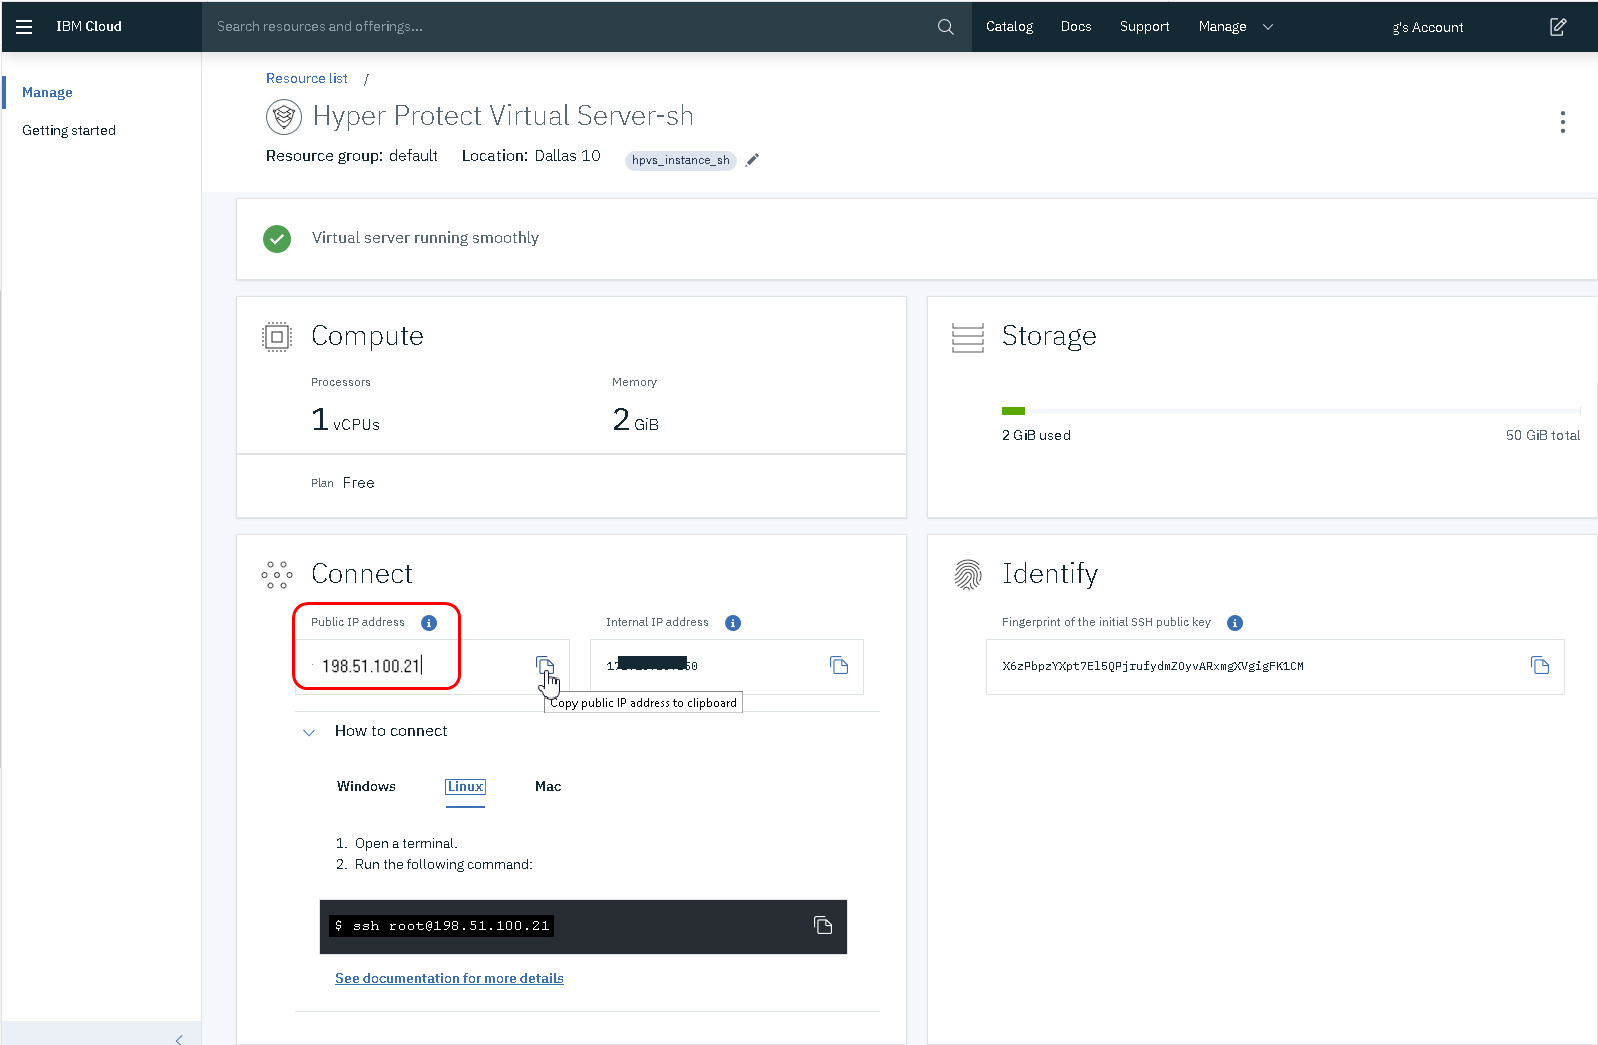
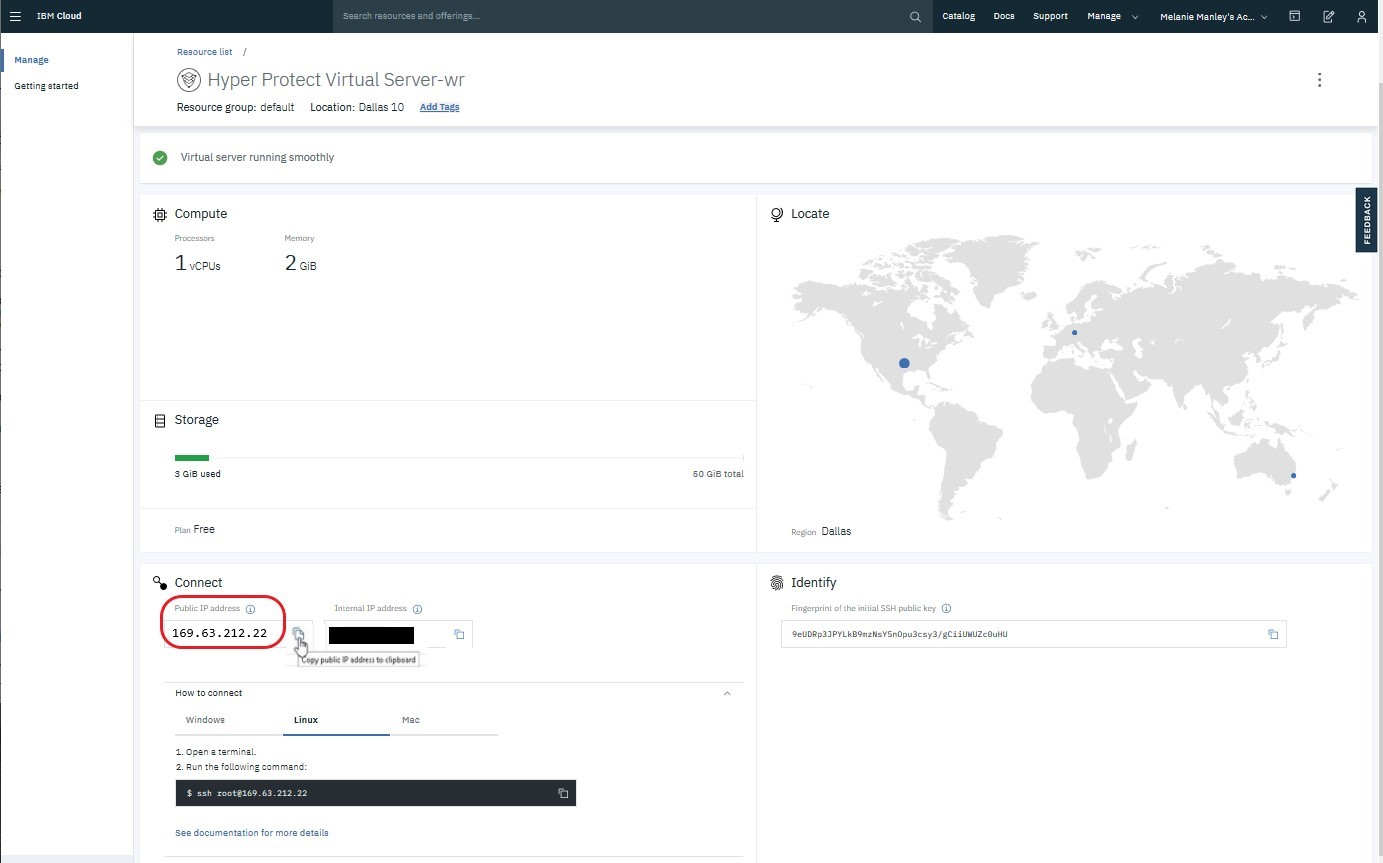
update region map

diff --git a/retrieve_info_vs.md b/retrieve_info_vs.md
@@ -20,7 +20,7 @@ lastupdated: "2019-12-09"
 
 After you created a virtual server by using the {{site.data.keyword.hpvs}} service, you can check the detailed information of your new instance.
 
-1. Go to the [Resource list](https://cloud.ibm.com/resources){: external} and look for your virtual server instance under the **Services** entry in the **Name** column. You can open the **Resource list** either from the {{site.data.keyword.cloud_notm}} **Navigation Menu** or from the {{site.data.keyword.cloud_notm}} Dashboard by selecting **View resources** within the **Resource summary** area. Column **Location** displays the selected data center where your instance was created. Use the filter to search for virtual server instances in certain regions or data centers. See also Figure 2 from [Provisioning a virtual server](/docs/services/hp-virtual-servers?topic=hp-virtual-servers-provision).
+1. Go to the [Resource list](https://cloud.ibm.com/resources){: external} and look for your virtual server instance under the **Services** entry in the **Name** column. You can open the **Resource list** either from the {{site.data.keyword.cloud_notm}} **Navigation Menu** or from the {{site.data.keyword.cloud_notm}} Dashboard by selecting **View resources** within the **Resource summary** area. The **Locate** map shows you the  region in which your instance was created, and the column **Location** displays the selected data center where your instance was created. Use the filter to search for virtual server instances in certain regions or data centers. See also Figure 2 from [Provisioning a virtual server](/docs/services/hp-virtual-servers?topic=hp-virtual-servers-provision).
 2. Click your virtual server instance to open the **{{site.data.keyword.hpvs}} dashboard**.
 
 In this dashboard, you can find the public IP address, which you use to connect to the virtual server.
